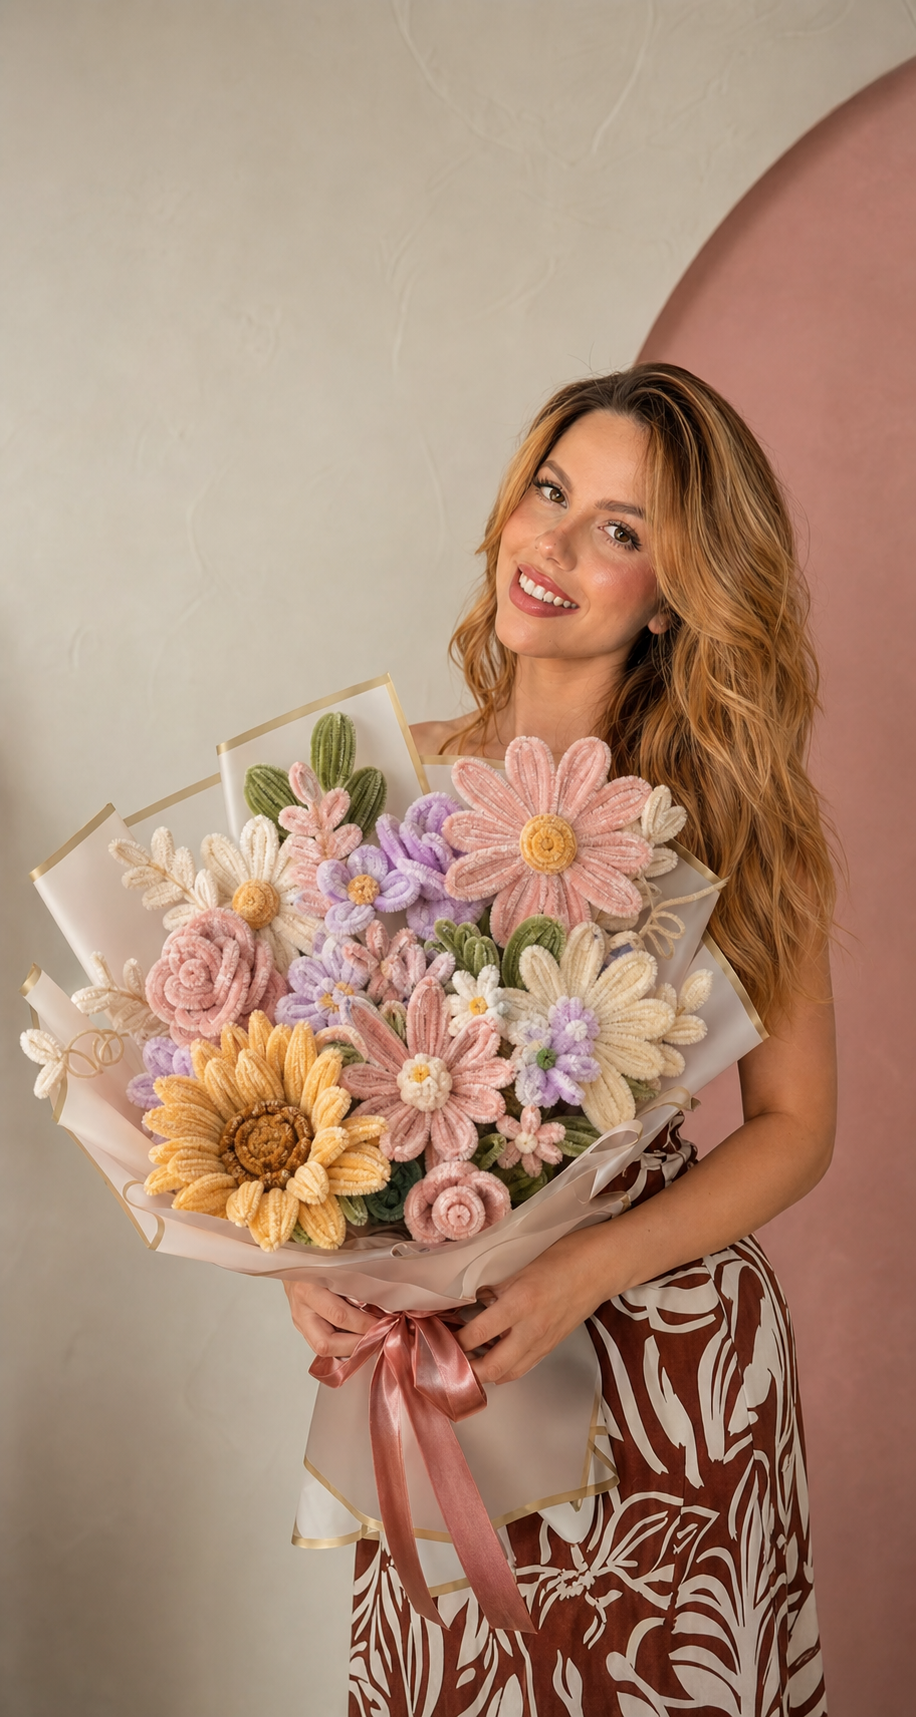
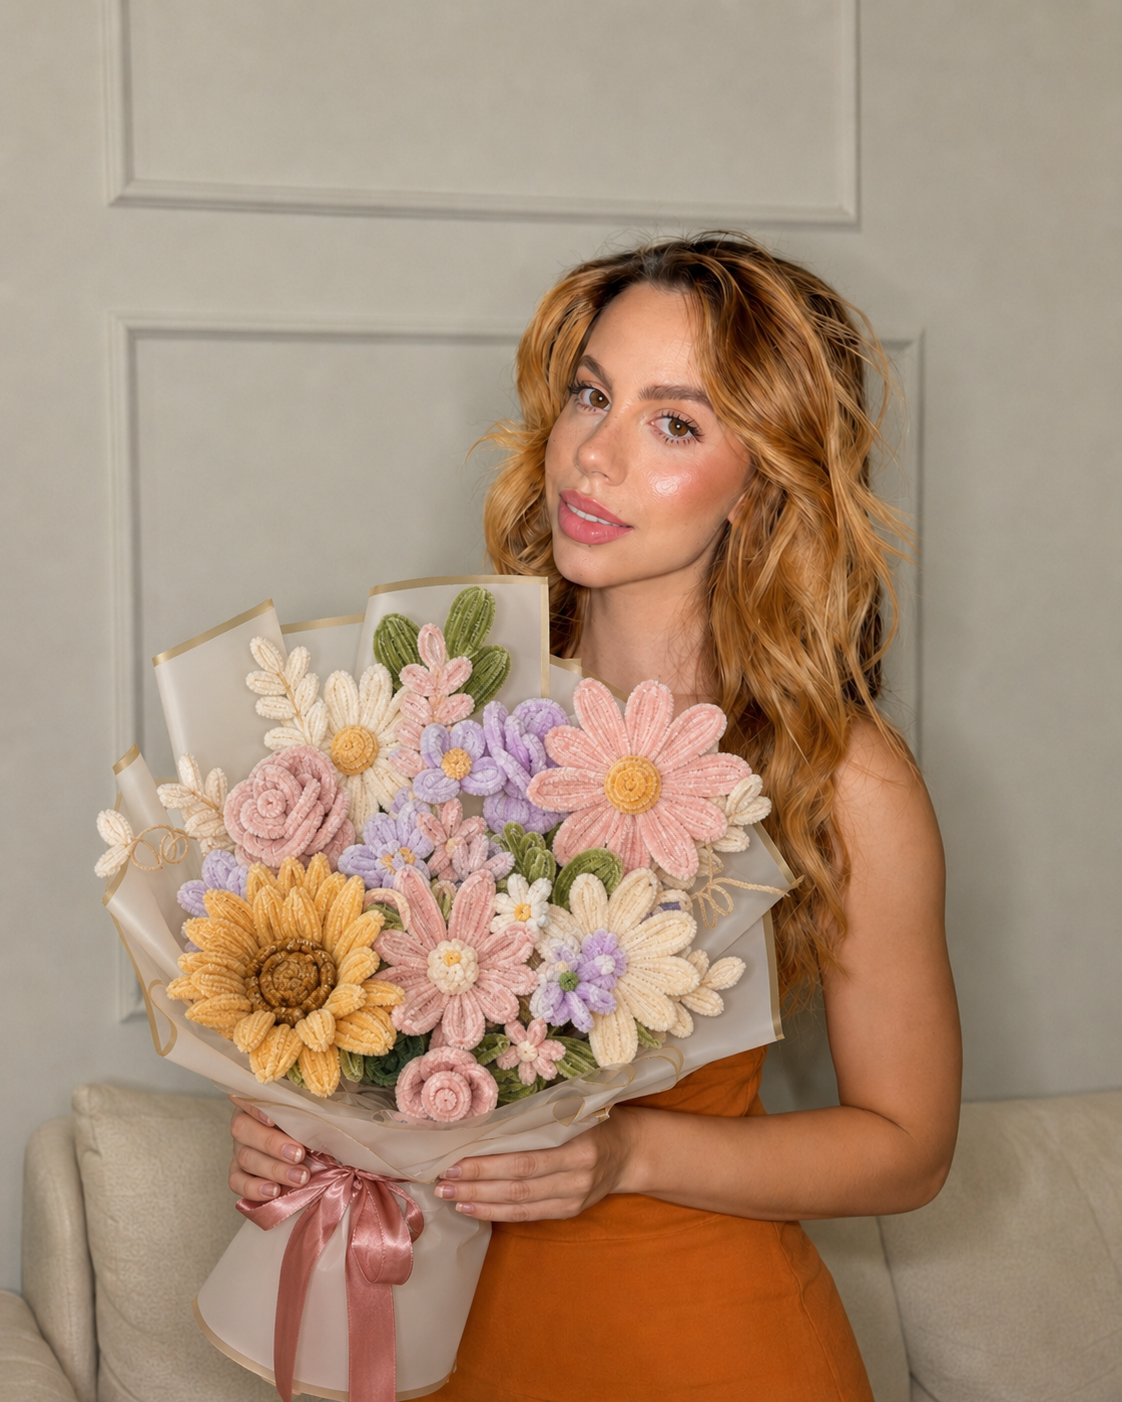
feat: atualizar imagens para formato WebP na página Sobre

diff --git a/src/app/AboutPage.tsx b/src/app/AboutPage.tsx
@@ -20,7 +20,7 @@ export default function AboutPage() {
           </div>
           <div className="relative mx-auto w-full max-w-md">
             <div className="absolute inset-8 rounded-full bg-[var(--secondary)]" />
-            <img src="/about-bruna.png" alt="Bruna segurando um buquê artesanal de flores em chenille" className="relative aspect-[3/4] w-full rounded-[28px] object-cover" />
+            <img src="/about-bruna.webp" alt="Bruna segurando um buquê artesanal de flores em chenille" className="relative aspect-[3/4] w-full rounded-[28px] object-cover" />
           </div>
         </section>
 
@@ -40,7 +40,7 @@ export default function AboutPage() {
 
         <section className="bg-[var(--surface-soft)] py-16 sm:py-20">
           <div className="mx-auto grid max-w-[1200px] items-center gap-10 px-5 sm:px-6 md:grid-cols-2 lg:gap-20">
-            <img src="/about-craft.png" alt="Processo artesanal de montagem de flores com hastes de chenille" className="aspect-[4/5] w-full rounded-[28px] object-cover" loading="lazy" />
+            <img src="/about-craft.webp" alt="Processo artesanal de montagem de flores com hastes de chenille" className="aspect-[4/5] w-full rounded-[28px] object-cover" loading="lazy" />
             <div>
               <div className="grid size-12 place-items-center rounded-2xl bg-white text-[var(--primary)]"><Flower2 size={23} /></div>
               <p className="mt-6 text-xs font-bold uppercase tracking-[.2em] text-[var(--primary)]">Flores que carregam sentimentos</p>
